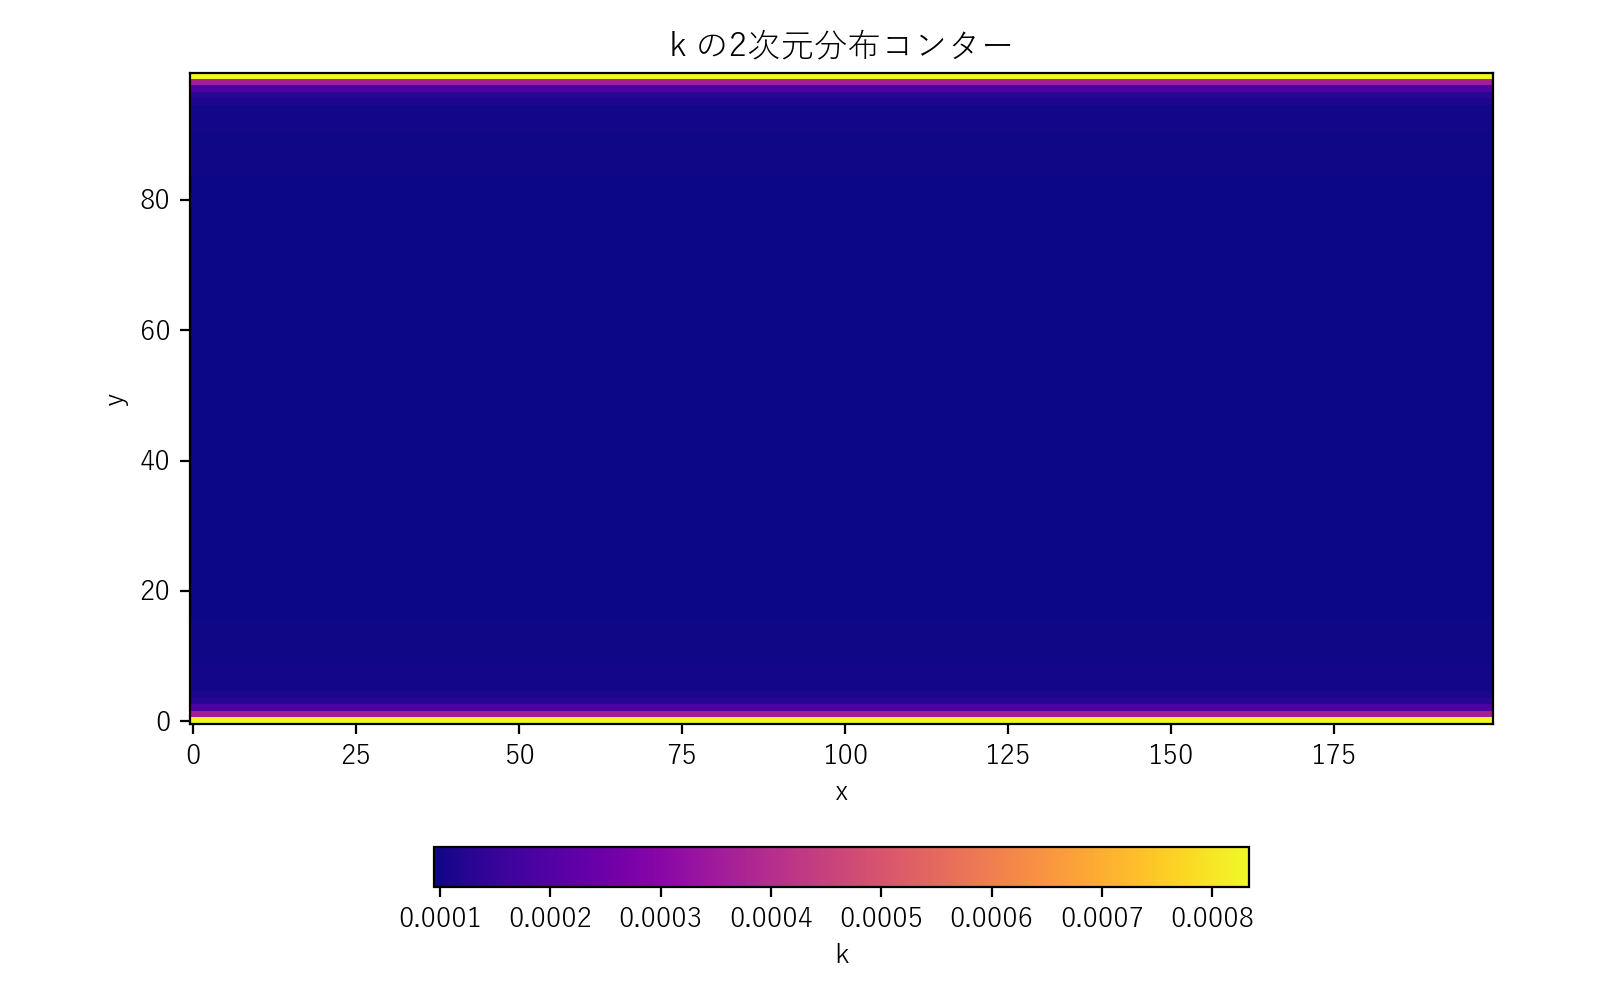
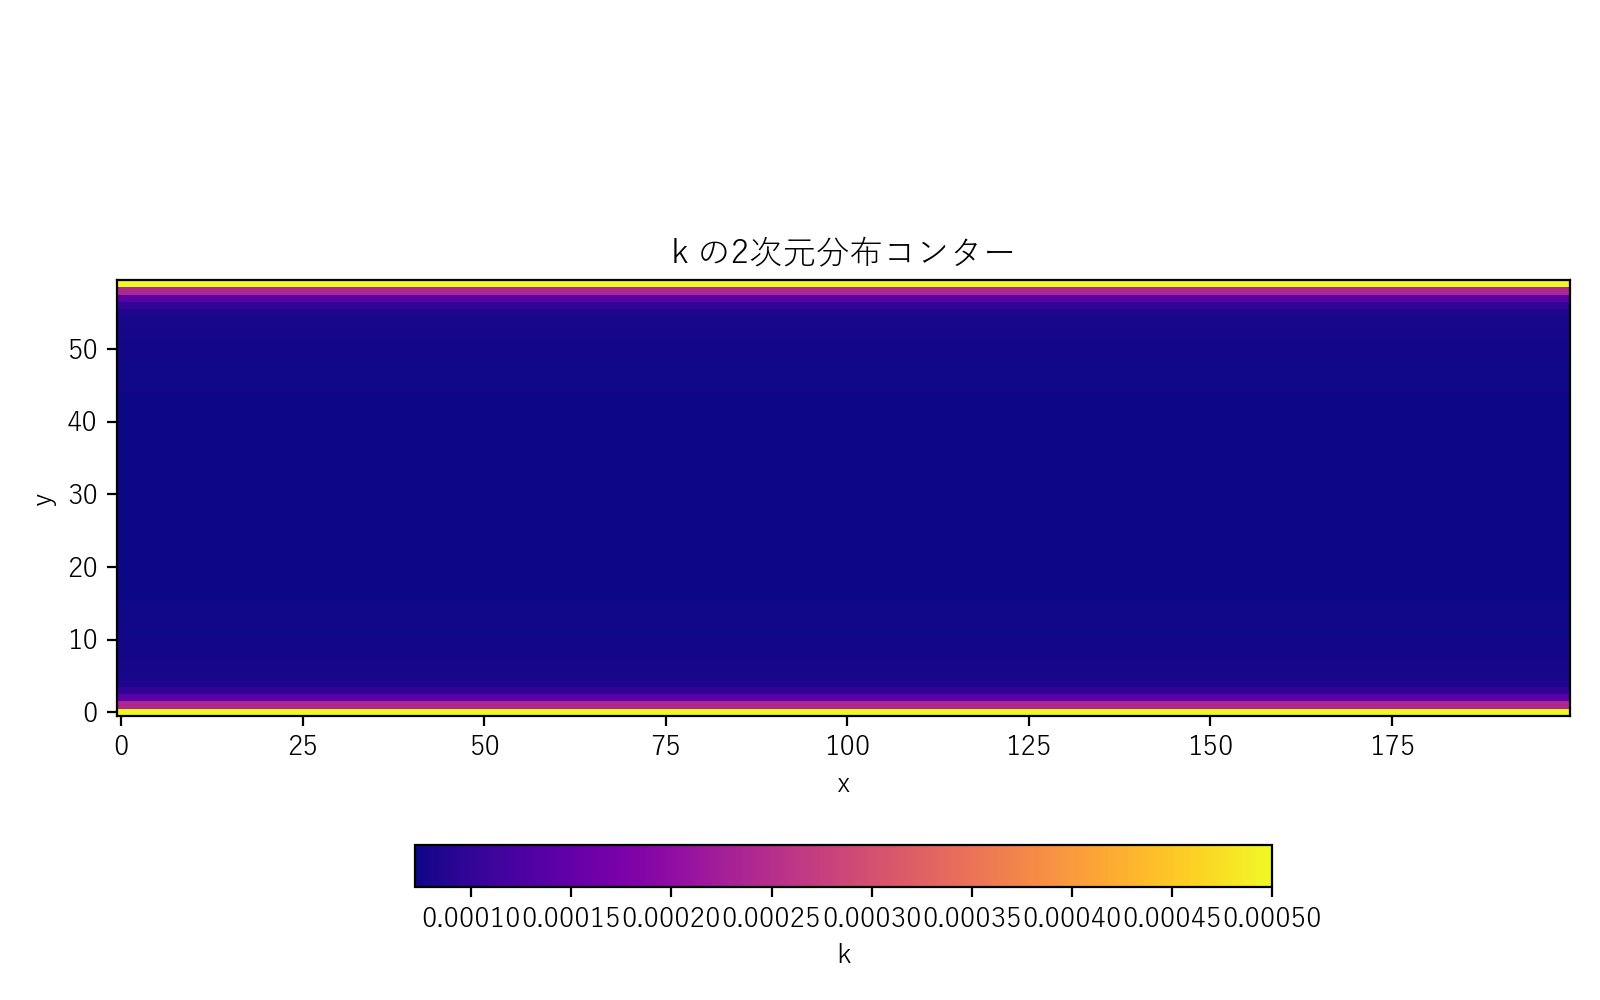
Reduce kelbm channel height to NY=60
Drop NY from 100 to 60 (NX unchanged at 200). The smaller half-height
delta=30 lowers Re_tau from 47 to 22 (low-Re regime). With Tau and F_x
unchanged, the laminar prediction u_max = F H^2 / (8 nu_0) drops from
0.375 to 0.135 — within the LBM Mach safety zone, so a pure laminar
steady state is no longer impossible.

The k-epsilon model still activates: nu_t/nu_0 reaches 0.13 in the bulk
and 0.15 at the wall-function cells, and the LBM u_max settles at
0.0996 (74% of laminar). This is a less dramatic suppression than at
NY=100 but a cleaner demonstration of the additive eddy-viscosity
effect (the model is supplementing molecular viscosity rather than
rescuing the simulation from instability).

Updated kelbm.md narrative, results table, Re_tau computation, and
the 注意 section to reflect the lower-Re regime, and regenerated all
six PNG figures.

Changed region(s): [[0.0312, 0.031, 1.0, 0.775], [0.25, 0.837, 0.8438, 0.93]]

diff --git a/src/sec4/kelbm.c b/src/sec4/kelbm.c
@@ -9,7 +9,7 @@
 #include <math.h>
 
 #define NX 200
-#define NY 100
+#define NY 60
 #define NDIR 9
 #define NSTEPS 30000
 #define TAU 0.55                    // BGK relaxation time (closer to 0.5 -> lower nu)

diff --git a/docs/sec4/kelbm.md b/docs/sec4/kelbm.md
@@ -2,7 +2,7 @@
 
 ## 概要
 
-[src/sec4/kelbm.c](../../src/sec4/kelbm.c) は、2次元格子ボルツマン法（LBM, D2Q9）に標準型 $k$-$\varepsilon$ 乱流モデルを組み合わせたチャンネル流れのテストケースです。x 方向は周期境界、y 方向は上下壁（halfway bounce-back）、x 方向の体積力（Guo forcing）で駆動し、第1流体セルへの高 Re 壁関数（Dirichlet）で k, ε を注入します。$Re_\tau \approx 47$（遷移域）に設定されており、層流予測との比較で $k$-$\varepsilon$ モデルの活性化を検証できます。
+[src/sec4/kelbm.c](../../src/sec4/kelbm.c) は、2次元格子ボルツマン法（LBM, D2Q9）に標準型 $k$-$\varepsilon$ 乱流モデルを組み合わせたチャンネル流れのテストケースです。x 方向は周期境界、y 方向は上下壁（halfway bounce-back）、x 方向の体積力（Guo forcing）で駆動し、第1流体セルへの高 Re 壁関数（Dirichlet）で k, ε を注入します。$Re_\tau \approx 22$ の低レイノルズ域に設定されており、層流予測との比較で $k$-$\varepsilon$ モデルの活性化を検証できます。
 
 ## 検証結果サマリー
 
@@ -16,17 +16,19 @@
 
 | 量 | 値 | 備考 |
 |---|---|---|
-| $u_{\max}$ (LBM) | 0.139 | $k$-$\varepsilon$ 有効 |
-| $u_{\max}$ (層流予測) | 0.375 | $u_{\max} = F_x H^2/(8\nu_0)$ |
-| $u_{\max}$ 比 (LBM/層流) | **0.37** | $\nu_t$ による実効粘性増加で減速 |
-| $Re_\tau$ | 47 | 遷移域 |
-| $Re_{\max}$ ($u_{\max} H/\nu_0$) | 833 | |
-| $\nu_t/\nu_0$ (バルク中央) | 0.16 | 渦粘性が分子粘性の16% |
-| $\nu_t/\nu_0$ (壁関数値) | 0.19 | 壁関数注入で安定 |
-| $k$ レンジ | $9.5\times 10^{-5}$–$8.3\times 10^{-4}$ | バルク〜壁 |
-| $\varepsilon$ レンジ | $3.0\times 10^{-7}$–$1.9\times 10^{-5}$ | バルク〜壁 |
+| $u_{\max}$ (LBM) | 0.0996 | $k$-$\varepsilon$ 有効 |
+| $u_{\max}$ (層流予測) | 0.135 | $u_{\max} = F_x H^2/(8\nu_0)$ |
+| $u_{\max}$ 比 (LBM/層流) | **0.74** | $\nu_t$ による実効粘性増加で減速 |
+| $Re_\tau$ | 22 | 低レイノルズ域 |
+| $Re_{\max}$ ($u_{\max} H/\nu_0$) | 359 | |
+| $\nu_t/\nu_0$ (バルク中央) | 0.13 | 渦粘性が分子粘性の13% |
+| $\nu_t/\nu_0$ (壁関数値) | 0.15 | 壁関数注入で安定 |
+| $k$ レンジ | $7.2\times 10^{-5}$–$5.0\times 10^{-4}$ | バルク〜壁 |
+| $\varepsilon$ レンジ | $2.2\times 10^{-7}$–$9.0\times 10^{-6}$ | バルク〜壁 |
 
-層流予測（$u_{\max}$=0.375）は LBM の Mach 数安定限界を超えるため、もし $k$-$\varepsilon$ が無効なら計算は破綻するはずです。実際は $\nu_t$ による減速で安定に定常解に収束し、$u_{\max} \approx 0.139$ に落ち着いています。これは「$k$-$\varepsilon$ モデルが流れを物理的に正しく抑制している」ことの直接的な証拠です。
+LBM 計算値 $u_{\max} \approx 0.0996$ は層流予測 $0.135$ の約 74% で、26% 程度の減速が見られます。この差は $\nu_t$ による実効粘性増加（バルクで $\nu_0$ の 13% 上乗せ）に対応しており、$k$-$\varepsilon$ モデルが正しく活性化していることを示します。
+
+なお、層流予測 $u_{\max} = 0.135$ 自体は LBM の典型的な Mach 安定限界（$|u| \lesssim 0.1$ 厳しめ、$\lesssim 0.15$ 緩め）の範囲に収まっており、$k$-$\varepsilon$ 無効でも単純な層流定常解は得られる領域です。$k$-$\varepsilon$ の活性化は「流れを破綻から救う」ためではなく、「乱流抑制効果を物理的に上乗せする」働きとして観察されます。
 
 ## シミュレーション結果（2次元分布）
 
@@ -221,7 +223,7 @@ $$
 
 ## 計算条件
 
-- 計算領域: $200 \times 100$ 格子（`NX = 200, NY = 100`、x方向：流れ方向、y方向：壁法線方向）
+- 計算領域: $200 \times 60$ 格子（`NX = 200, NY = 60`、x方向：流れ方向、y方向：壁法線方向）
 - 時間ステップ数: `NSTEPS = 30000`
 - 緩和パラメータ: $\tau = 0.55$（$\omega = 1/\tau \approx 1.818$）、LBM分子動粘性 $\nu_0 = (\tau - 1/2)/3 \approx 0.0167$
 - 体積力: $F_x = 5\times 10^{-6}$ ($x$ 方向、Guo forcing で印加)
@@ -239,13 +241,13 @@ $$
 u_\tau = \sqrt{F_x \, \delta},\quad \delta = NY/2
 $$
 
-本パラメータでは $u_\tau \approx 0.0158$、$\nu_0 \approx 0.0167$ なので
+本パラメータでは $u_\tau \approx 0.0123$、$\nu_0 \approx 0.0167$ なので
 
 $$
-Re_\tau = \frac{u_\tau\, \delta}{\nu_0} \approx 47
+Re_\tau = \frac{u_\tau\, \delta}{\nu_0} \approx 22
 $$
 
-（遷移域、完全乱流の典型値 $Re_\tau \gtrsim 180$ には届かないが、$k$-$\varepsilon$ モデルの活性化は確認できる）
+（低レイノルズ域、完全乱流の典型値 $Re_\tau \gtrsim 180$ には届かないが、$k$-$\varepsilon$ モデルの活性化は確認できる）
 
 ## 変数と配列
 
@@ -284,7 +286,7 @@ $$
 
 ## 注意（限界）
 
-- $Re_\tau \approx 47$ は**遷移域**であり、完全乱流（典型 $Re_\tau \gtrsim 180$）ではありません。本コードは $k$-$\varepsilon$ 実装の活性化検証としては有効ですが、対数則 $u^+ = (1/\kappa)\ln y^+ + B$ の再現や DNS 統計との比較には不適です。
+- $Re_\tau \approx 22$ は**低レイノルズ域**であり、完全乱流（典型 $Re_\tau \gtrsim 180$）ではありません。本コードは $k$-$\varepsilon$ 実装の活性化検証としては有効ですが、対数則 $u^+ = (1/\kappa)\ln y^+ + B$ の再現や DNS 統計との比較には不適です。
 - 完全乱流レジームには $\tau \to 0.5$（$\nu_0 \to 0$）が必要ですが、BGK 衝突演算子は $\tau \approx 0.5$ で不安定化します。MRT/regularized 衝突や Smagorinsky 型 LES などへの変更が必要です。
 - 実装した壁関数（halfway bounce-back の第1流体セルに $k$, $\varepsilon$ を Dirichlet 設定）は $y^+ \gtrsim 30$ の対数領域で有効な「高 Re 壁関数」です。本ケースでは $y^+_1 = u_\tau \cdot \Delta y / \nu_0 \approx 0.5$ と著しく小さく、形式的には適用範囲外です。低 Re k-ε モデル（Launder-Sharma など）への拡張で改善できます。
 - それでも、本実装は「対流・拡散・生成・散逸を含む標準 $k$-$\varepsilon$ 輸送方程式」を機能させ、層流予測から大きく外れた現実的な乱流抑制効果を再現できることを示しています。
